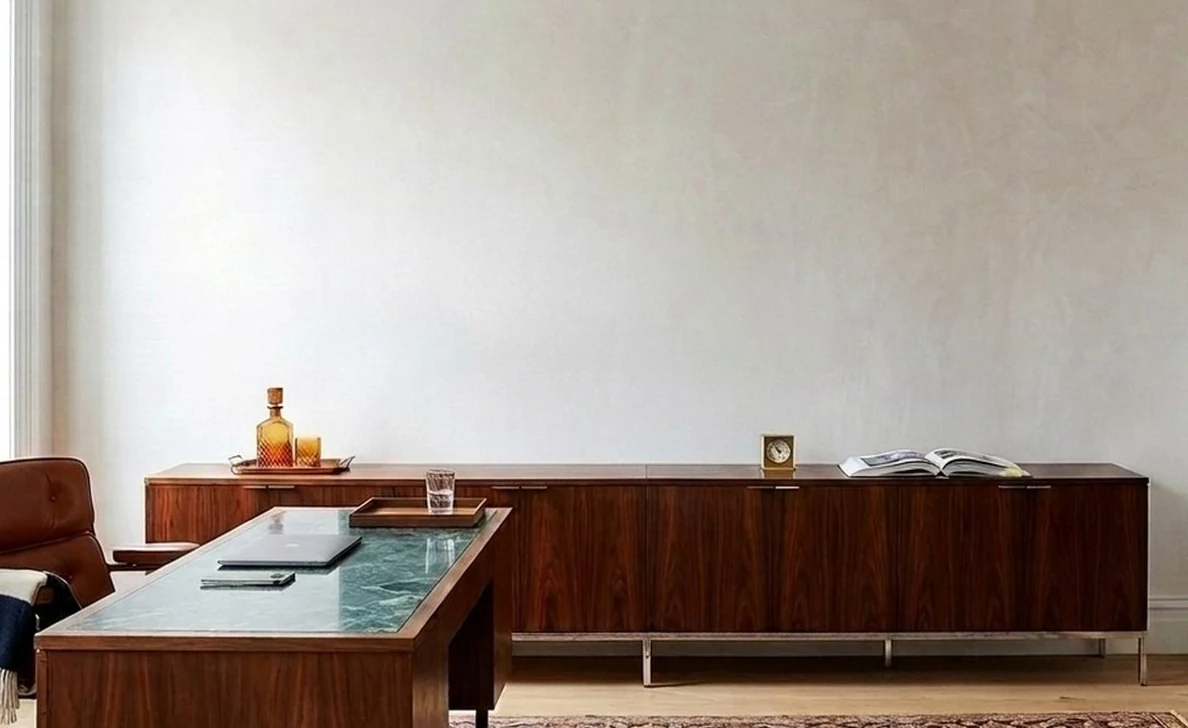
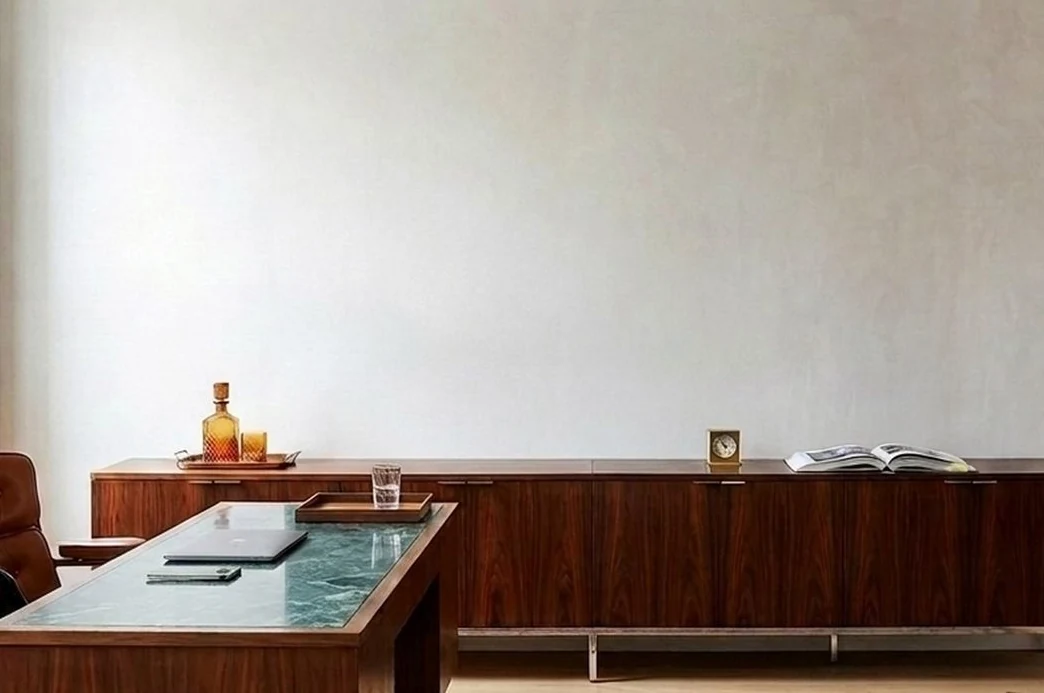
LM-12864 Closer crop again, editions at 92 px

Changed region(s): [[0.0, 0.0, 1.0, 1.0], [0.2452, 0.9697, 0.2759, 1.0]]

diff --git a/onsite-alignment/slim-aarons-wall-curator/index.html b/onsite-alignment/slim-aarons-wall-curator/index.html
@@ -1647,7 +1647,7 @@ img{display:block;max-width:100%;height:auto}
       </div>
       <div class="wc-canvas" id="canvas">
         <span class="wc-frame">
-          <img class="wc-room" id="roomPhoto" src="assets/slim-aarons-slides/wall-study.webp" alt="A study with a long rosewood credenza against a pale plaster wall." width="1188" height="728">
+          <img class="wc-room" id="roomPhoto" src="assets/slim-aarons-slides/wall-study.webp" alt="A study with a long rosewood credenza against a pale plaster wall." width="1044" height="693">
           <div class="wc-zone" id="hang">
             <span class="lt-guide lt-guide--v" id="guideV" hidden></span>
             <span class="lt-guide lt-guide--h" id="guideH" hidden></span>
@@ -1949,21 +1949,24 @@ img{display:block;max-width:100%;height:auto}
      The earlier hallway plate is still in assets as wall-hallway.webp, measured
      at pctPerCm 0.002808, wall{t:10,b:66,l:5,r:95}, anchor{x:52,y:63}. */
   var room = {
-    id:"study", name:"Study", file:"wall-study.webp", w:1188, h:728,
+    id:"study", name:"Study", file:"wall-study.webp", w:1044, h:693,
     alt:"A study with a long rosewood credenza against a pale plaster wall.",
     /* Scale read off the plate, not guessed. The Knoll credenza is 64.8 cm tall
        and stands 217.6 px high on the uncropped 1800 px photograph, so one cm is
        3.358 px. Cross-checked against the rocks glass (8.7 cm, 3.37 px/cm) and the
        carriage clock (10 cm wide, 3.4 px/cm). Cropping does not rescale pixels, so
-       on this 1188 px crop one cm is still 3.358 px, which is 0.002827 of the
-       width: a 34 cm edition sits 9.61% of the plate wide. */
-    pctPerCm:0.002827, wall:{t:3, b:58, l:6, r:96}, anchor:{x:52, y:56},
+       one cm is still 3.358 px here, which is 0.003216 of this 1044 px crop: a
+       34 cm edition sits 10.94% of the plate wide. The room block is capped at
+       62vh, so what an edition measures on screen follows the plate's HEIGHT, and
+       the wall above the credenza has to keep room for three rows: 34 x 3 plus two
+       4 cm gaps is 110 cm, which is why the crop comes off the bottom, not the top. */
+    pctPerCm:0.003216, wall:{t:3, b:60, l:3, r:97}, anchor:{x:52, y:58},
     /* Things a hung work must not cross. The decanter and glasses standing on the
-       credenza; the clock and the book sit below the plane, the paper lantern is
-       outside this crop. Only the automatic hangs respect these, a visitor dragging
-       by hand may put a work wherever they want it. */
-    objects:[ {l:15, t:52, r:30.5, b:65} ]
+       credenza; the clock and the book sit below the plane. Only the automatic
+       hangs respect these, a visitor dragging by hand may put a work anywhere. */
+    objects:[ {l:16, t:54, r:29, b:68} ]
   };
+
 
 
 
